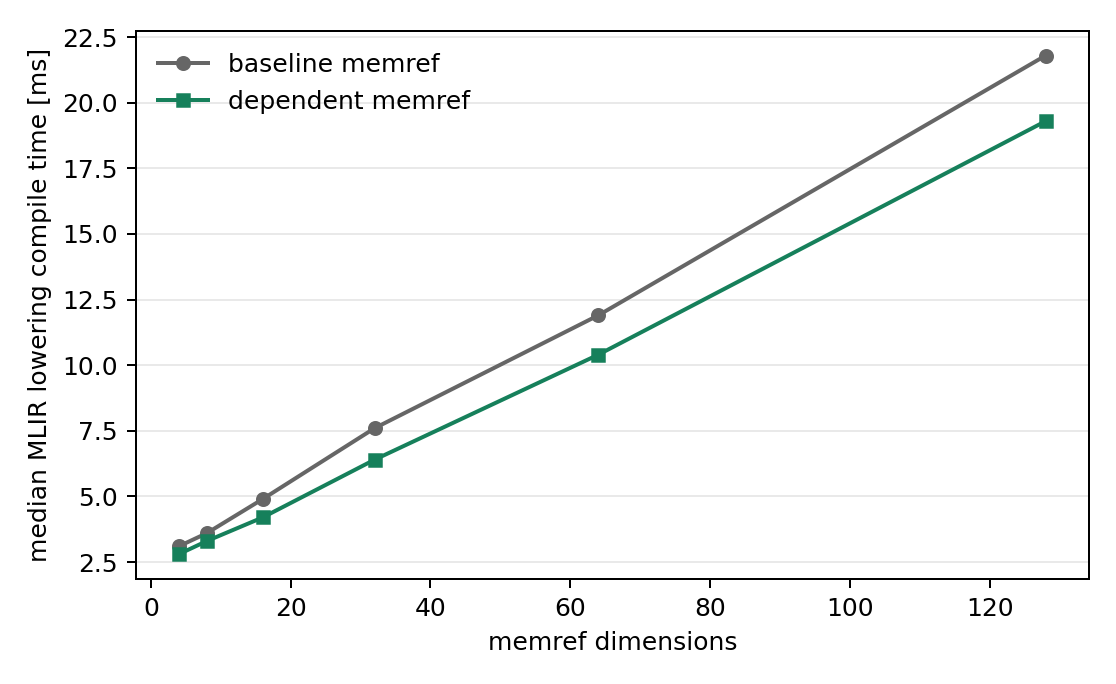
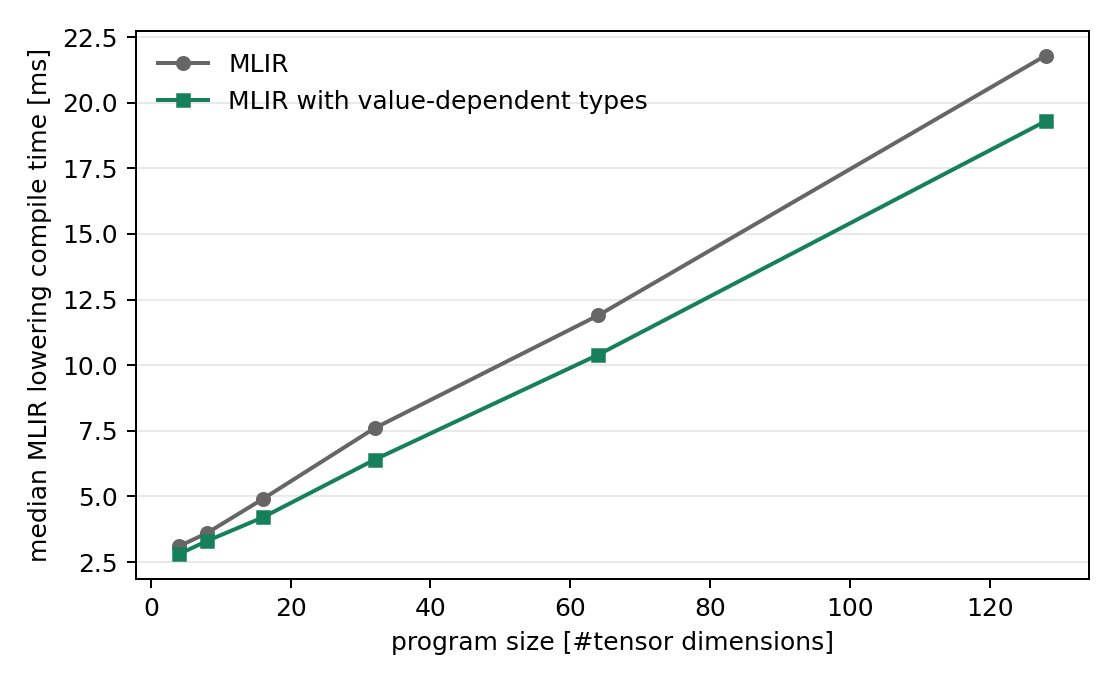
[mlir][dependent-memref] Clarify verification benchmark plot labels

Changed region(s): [[0.1828, 0.0614, 0.5789, 0.1842], [0.3351, 0.9211, 0.7616, 0.9518]]

diff --git a/mlir/examples/dependent-refinement-verification/plot.py b/mlir/examples/dependent-refinement-verification/plot.py
@@ -8,7 +8,7 @@ import matplotlib.pyplot as plt
 
 COLORS = {"baseline_memref": "#666666", "memref": "#16805b"}
 MARKERS = {"baseline_memref": "o", "memref": "s"}
-LABELS = {"baseline_memref": "baseline memref", "memref": "dependent memref"}
+LABELS = {"baseline_memref": "MLIR", "memref": "MLIR with value-dependent types"}
 
 
 def read_rows(path: Path):
@@ -43,7 +43,7 @@ def plot(rows, x_key, y_key, ylabel, out: Path, stem: str):
     labels = {
         "rank": "contraction rank",
         "contraction_rank": "contraction rank",
-        "max_carrier_rank": "memref dimensions",
+        "max_carrier_rank": "program size [#tensor dimensions]",
         "logical_dim_refs": "logical dimension references",
         "refinement_value_refs": "refinement value references",
         "lines": "generated MLIR lines",

diff --git a/mlir/examples/dependent-refinement-verification/README.md b/mlir/examples/dependent-refinement-verification/README.md
@@ -77,9 +77,10 @@ mlir-lowering-compile-time-vs-dimensions.pdf
 mlir-lowering-compile-time-vs-dimensions.png
 ```
 
-The figure has two point/line series, `baseline memref` and `dependent memref`,
-with memref dimensions on the x-axis and median full MLIR lowering compile time
-on the y-axis.
+The figure has two point/line series, `MLIR` and
+`MLIR with value-dependent types`, with program size
+`[#tensor dimensions]` on the x-axis and median full MLIR
+lowering compile time on the y-axis.
 
 ## Timing Method
 
